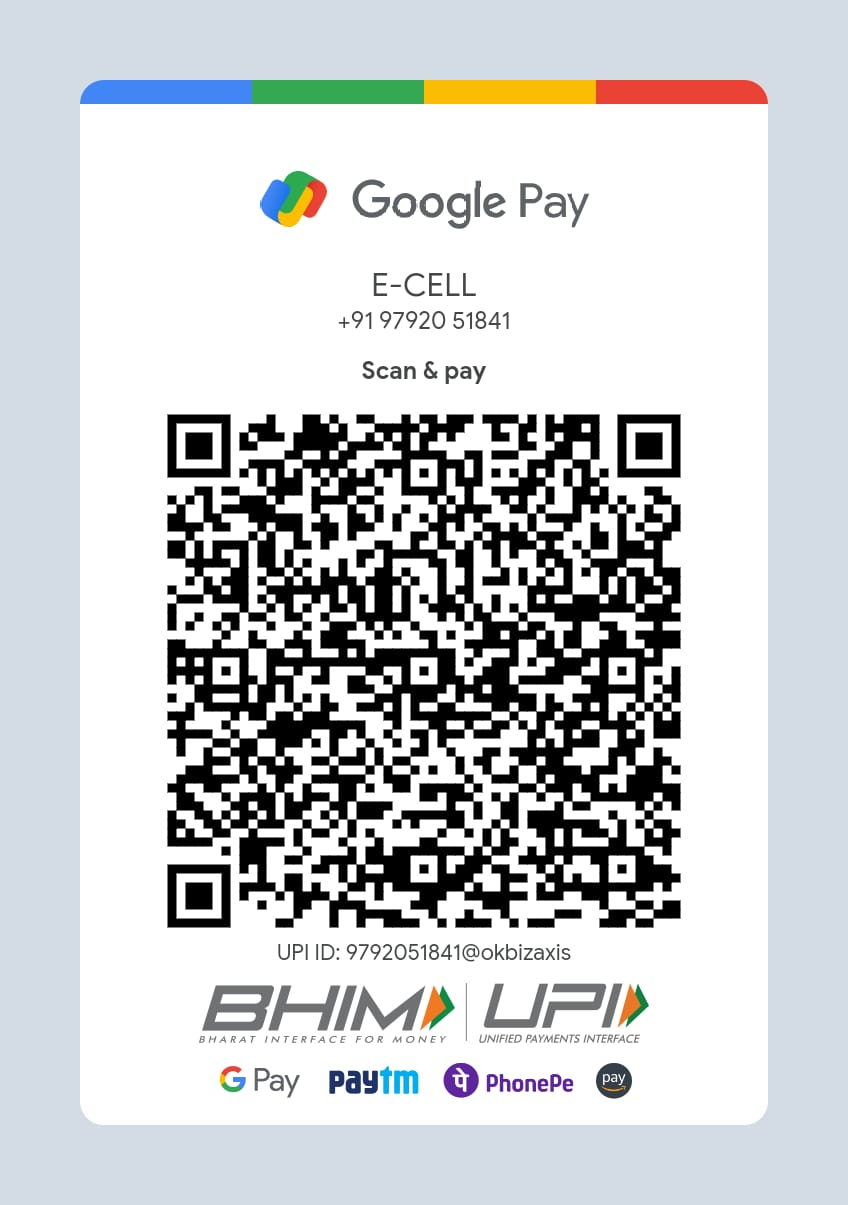
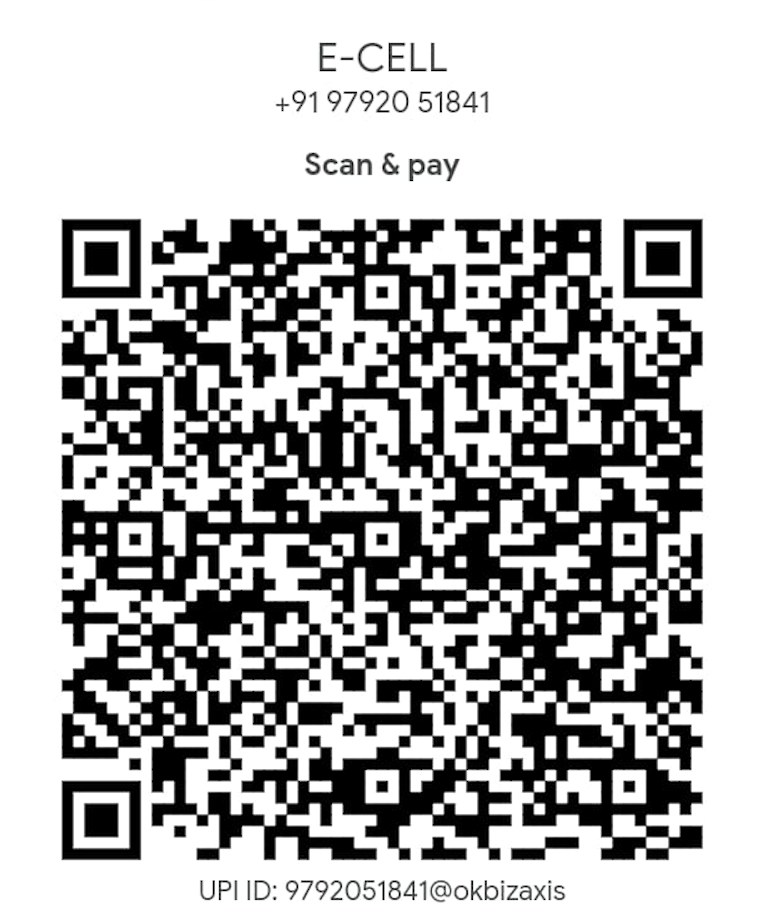
Switch to light professional theme, update payment QR code, viewport-fit=cover for safe-area support

diff --git a/src/index.css b/src/index.css
@@ -1,23 +1,26 @@
 :root {
-  /* Palette sampled from the official EUREKA! Road to Enterprise 2026
-     lockup — deep navy + brand blue, not a generic AI-gradient theme. */
-  --bg: #05070f;
-  --bg-alt: #080b18;
-  --card: #0d1226;
-  --card-border: #1e2743;
-  --text: #f2f4fa;
-  --text-dim: #a7b0c7;
-  --text-dimmer: #6c7690;
+  /* Light, professional "visionary" palette — brand blue + navy accents on
+     clean white/near-white surfaces. The hero keeps a dark photo backdrop;
+     everything below it is light. */
+  --bg: #f6f8fc;
+  --bg-alt: #eef1f9;
+  --card: #ffffff;
+  --card-border: #e1e6f2;
+  --text: #10162f;
+  --text-dim: #4b5573;
+  --text-dimmer: #7c86a3;
   --accent-1: #14205c;
   --accent-2: #2f5fed;
   --accent-3: #4f8dff;
   --accent-4: #8fb4ff;
+  --hero-bg-end: #090c18;
   --gradient-brand: linear-gradient(120deg, #142873 0%, #2f5fed 55%, #5b9dff 100%);
   --gradient-cta: linear-gradient(120deg, #2f5fed 0%, #1a3fb8 100%);
   --radius: 18px;
   --radius-sm: 10px;
   --max-width: 1180px;
   --shadow-glow: 0 0 60px -20px rgba(47, 95, 237, 0.45);
+  --shadow-card: 0 16px 40px -24px rgba(16, 22, 47, 0.18);
   font-synthesis: none;
   text-rendering: optimizeLegibility;
   -webkit-font-smoothing: antialiased;
@@ -29,6 +32,8 @@
 
 html {
   scroll-behavior: smooth;
+  max-width: 100%;
+  overflow-x: hidden;
 }
 
 body {
@@ -150,14 +155,25 @@ img {
 }
 
 .btn-ghost {
-  background: rgba(255, 255, 255, 0.04);
+  background: rgba(20, 32, 90, 0.04);
   color: var(--text);
-  border: 1px solid rgba(255, 255, 255, 0.16);
+  border: 1px solid rgba(20, 32, 90, 0.16);
 }
 
 .btn-ghost:hover {
-  background: rgba(255, 255, 255, 0.09);
+  background: rgba(20, 32, 90, 0.08);
   transform: translateY(-2px);
+}
+
+/* Ghost buttons that sit on the dark hero photo need light text/border */
+.hero-actions .btn-ghost {
+  background: rgba(255, 255, 255, 0.08);
+  color: #ffffff;
+  border: 1px solid rgba(255, 255, 255, 0.28);
+}
+
+.hero-actions .btn-ghost:hover {
+  background: rgba(255, 255, 255, 0.14);
 }
 
 .btn:disabled {
@@ -174,8 +190,8 @@ img {
   right: 0;
   z-index: 100;
   backdrop-filter: blur(14px);
-  background: rgba(5, 7, 15, 0.78);
-  border-bottom: 1px solid rgba(255, 255, 255, 0.06);
+  background: rgba(255, 255, 255, 0.82);
+  border-bottom: 1px solid var(--card-border);
 }
 
 .navbar-inner {
@@ -265,7 +281,7 @@ img {
       180deg,
       rgba(5, 7, 15, 0.55) 0%,
       rgba(5, 7, 15, 0.82) 60%,
-      var(--bg) 100%
+      var(--hero-bg-end) 100%
     ),
     radial-gradient(55% 55% at 20% 10%, rgba(20, 40, 115, 0.4), transparent 70%),
     radial-gradient(45% 45% at 85% 0%, rgba(47, 95, 237, 0.25), transparent 70%);
@@ -277,6 +293,12 @@ img {
   display: grid;
   gap: 40px;
   align-items: center;
+  min-width: 0;
+}
+
+.hero-inner > * {
+  min-width: 0;
+  max-width: 100%;
 }
 
 @media (min-width: 980px) {
@@ -306,6 +328,12 @@ img {
   flex-wrap: wrap;
   gap: 10px;
   margin-bottom: 22px;
+  max-width: 100%;
+}
+
+.hero-badge-row .eyebrow {
+  max-width: 100%;
+  overflow-wrap: break-word;
 }
 
 .hero-title {
@@ -446,8 +474,8 @@ img {
 
 /* ---------- Stats ---------- */
 .stats-strip {
-  border-top: 1px solid rgba(255, 255, 255, 0.06);
-  border-bottom: 1px solid rgba(255, 255, 255, 0.06);
+  border-top: 1px solid var(--card-border);
+  border-bottom: 1px solid var(--card-border);
   background: var(--bg-alt);
   padding: 46px 0;
 }
@@ -507,6 +535,7 @@ img {
   border: 1px solid var(--card-border);
   border-radius: var(--radius);
   padding: 26px;
+  box-shadow: var(--shadow-card);
 }
 
 .about-card .icon {
@@ -588,6 +617,7 @@ img {
   border: 1px solid var(--card-border);
   border-radius: var(--radius-sm);
   padding: 20px 22px;
+  box-shadow: var(--shadow-card);
 }
 
 .timeline-item.active .timeline-card {
@@ -666,12 +696,14 @@ img {
   padding: 18px;
   font-weight: 700;
   font-size: 0.92rem;
-  transition: border-color 0.2s ease, transform 0.2s ease;
+  box-shadow: var(--shadow-card);
+  transition: border-color 0.2s ease, transform 0.2s ease, box-shadow 0.2s ease;
 }
 
 .track-chip:hover {
-  border-color: var(--accent-1);
+  border-color: var(--accent-2);
   transform: translateY(-3px);
+  box-shadow: 0 20px 40px -20px rgba(47, 95, 237, 0.35);
 }
 
 /* ---------- Rewards ---------- */
@@ -690,8 +722,9 @@ img {
 .reward-card {
   border-radius: var(--radius);
   padding: 28px;
-  background: linear-gradient(160deg, rgba(255, 255, 255, 0.05), rgba(255, 255, 255, 0.015));
+  background: linear-gradient(160deg, rgba(47, 95, 237, 0.05), rgba(20, 40, 115, 0.02));
   border: 1px solid var(--card-border);
+  box-shadow: var(--shadow-card);
 }
 
 .reward-card h3 {
@@ -723,6 +756,7 @@ img {
   border: 1px solid var(--card-border);
   border-radius: var(--radius-sm);
   overflow: hidden;
+  box-shadow: var(--shadow-card);
 }
 
 .faq-question {
@@ -783,6 +817,7 @@ img {
   padding: 40px;
   position: relative;
   overflow: hidden;
+  box-shadow: var(--shadow-card);
 }
 
 @media (max-width: 640px) {
@@ -883,8 +918,8 @@ img {
 .field input,
 .field select,
 .field textarea {
-  background: rgba(255, 255, 255, 0.04);
-  border: 1px solid rgba(255, 255, 255, 0.14);
+  background: rgba(20, 32, 90, 0.03);
+  border: 1px solid rgba(20, 32, 90, 0.14);
   border-radius: 10px;
   padding: 13px 14px;
   color: var(--text);
@@ -894,6 +929,11 @@ img {
   width: 100%;
   min-height: 48px; /* comfortable tap target on phones */
   transition: border-color 0.15s ease, background 0.15s ease;
+}
+
+.field input::placeholder,
+.field textarea::placeholder {
+  color: var(--text-dimmer);
 }
 
 .field select {
@@ -910,7 +950,7 @@ img {
 .field select:focus,
 .field textarea:focus {
   border-color: var(--accent-3);
-  background: rgba(20, 40, 115, 0.08);
+  background: rgba(47, 95, 237, 0.05);
 }
 
 .field textarea {
@@ -936,7 +976,7 @@ img {
 }
 
 .field-error {
-  color: #ff8a8a;
+  color: #d92d2d;
   font-size: 0.76rem;
   font-weight: 600;
 }
@@ -949,7 +989,7 @@ img {
 /* ---------- Member blocks (dynamic team fields) ---------- */
 .member-block {
   border: 1px solid var(--card-border);
-  background: rgba(255, 255, 255, 0.02);
+  background: rgba(20, 32, 90, 0.025);
   border-radius: var(--radius-sm);
   padding: 18px;
   display: flex;
@@ -993,10 +1033,11 @@ img {
 .payment-qr-wrap {
   border-radius: 12px;
   overflow: hidden;
-  border: 1px solid rgba(255, 255, 255, 0.12);
+  border: 1px solid var(--card-border);
   background: #fff;
   width: 160px;
   padding: 6px;
+  box-shadow: var(--shadow-card);
 }
 
 .payment-qr-wrap img {
@@ -1028,16 +1069,16 @@ img {
 }
 
 .form-status.success {
-  color: #4ade80;
+  color: #16a34a;
 }
 
 .form-status.error {
-  color: #ff8a8a;
+  color: #d92d2d;
 }
 
 /* ---------- Footer ---------- */
 .footer {
-  border-top: 1px solid rgba(255, 255, 255, 0.06);
+  border-top: 1px solid var(--card-border);
   padding: 46px 0 30px;
   color: var(--text-dimmer);
 }
@@ -1069,7 +1110,7 @@ img {
   margin-top: 26px;
   font-size: 0.78rem;
   line-height: 1.6;
-  border-top: 1px solid rgba(255, 255, 255, 0.05);
+  border-top: 1px solid var(--card-border);
   padding-top: 22px;
 }
 
@@ -1081,9 +1122,10 @@ img {
   right: 0;
   z-index: 90;
   padding: 12px 16px calc(12px + env(safe-area-inset-bottom, 0px));
-  background: rgba(7, 7, 13, 0.9);
+  background: rgba(255, 255, 255, 0.92);
   backdrop-filter: blur(14px);
-  border-top: 1px solid rgba(255, 255, 255, 0.08);
+  border-top: 1px solid var(--card-border);
+  box-shadow: 0 -8px 24px -12px rgba(16, 22, 47, 0.15);
 }
 
 .mobile-cta .btn {

diff --git a/index.html b/index.html
@@ -3,7 +3,8 @@
   <head>
     <meta charset="UTF-8" />
     <link rel="icon" type="image/svg+xml" href="/favicon.svg" />
-    <meta name="viewport" content="width=device-width, initial-scale=1.0" />
+    <meta name="viewport" content="width=device-width, initial-scale=1.0, viewport-fit=cover" />
+    <meta name="theme-color" content="#f6f8fc" />
     <meta
       name="description"
       content="Register your team for EUREKA '26 (Eureka! Zonal Round) at ABES Engineering College, Ghaziabad — Asia's largest business model competition by E-Cell IIT Bombay."
